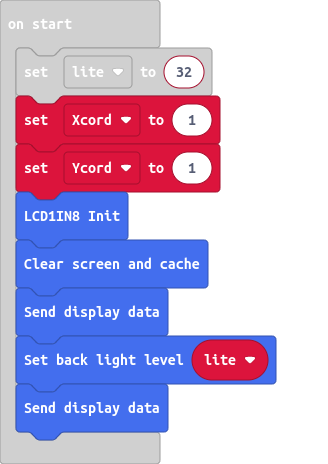
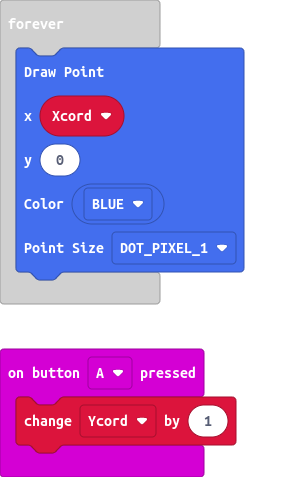
plot point at cord,0 - increase Xcord on prerssing button A

diff --git a/main.ts b/main.ts
@@ -1,3 +1,6 @@
+input.onButtonPressed(Button.A, function () {
+    Ycord += 1
+})
 let lite = 32
 let Xcord = 1
 let Ycord = 1
@@ -7,5 +10,10 @@ LCD1IN8.LCD_Display()
 LCD1IN8.LCD_SetBL(lite)
 LCD1IN8.LCD_Display()
 basic.forever(function () {
-	
+    LCD1IN8.DrawPoint(
+    Xcord,
+    0,
+    LCD1IN8.Get_Color(LCD_COLOR.BLUE),
+    DOT_PIXEL.DOT_PIXEL_1
+    )
 })

diff --git a/main.py b/main.py
@@ -1,0 +1,12 @@
+lite = 32
+Xcord = 1
+Ycord = 1
+LCD1IN8.LCD_Init()
+LCD1IN8.LCD_Clear()
+LCD1IN8.LCD_Display()
+LCD1IN8.LCD_SetBL(lite)
+LCD1IN8.LCD_Display()
+
+def on_forever():
+    pass
+basic.forever(on_forever)
